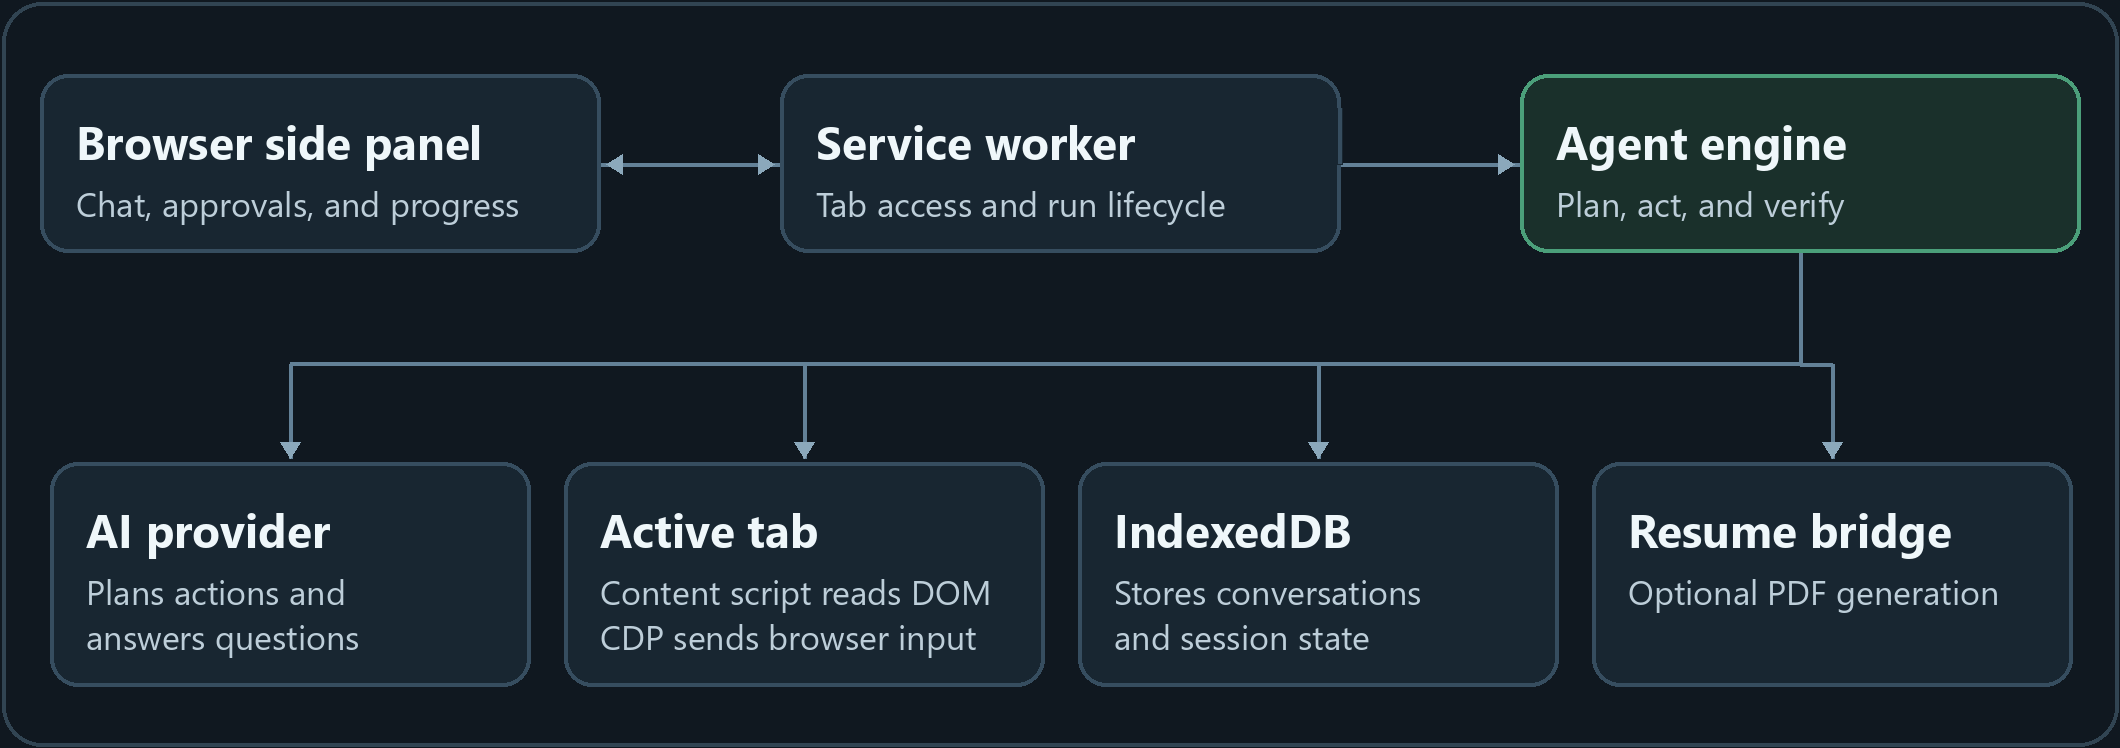
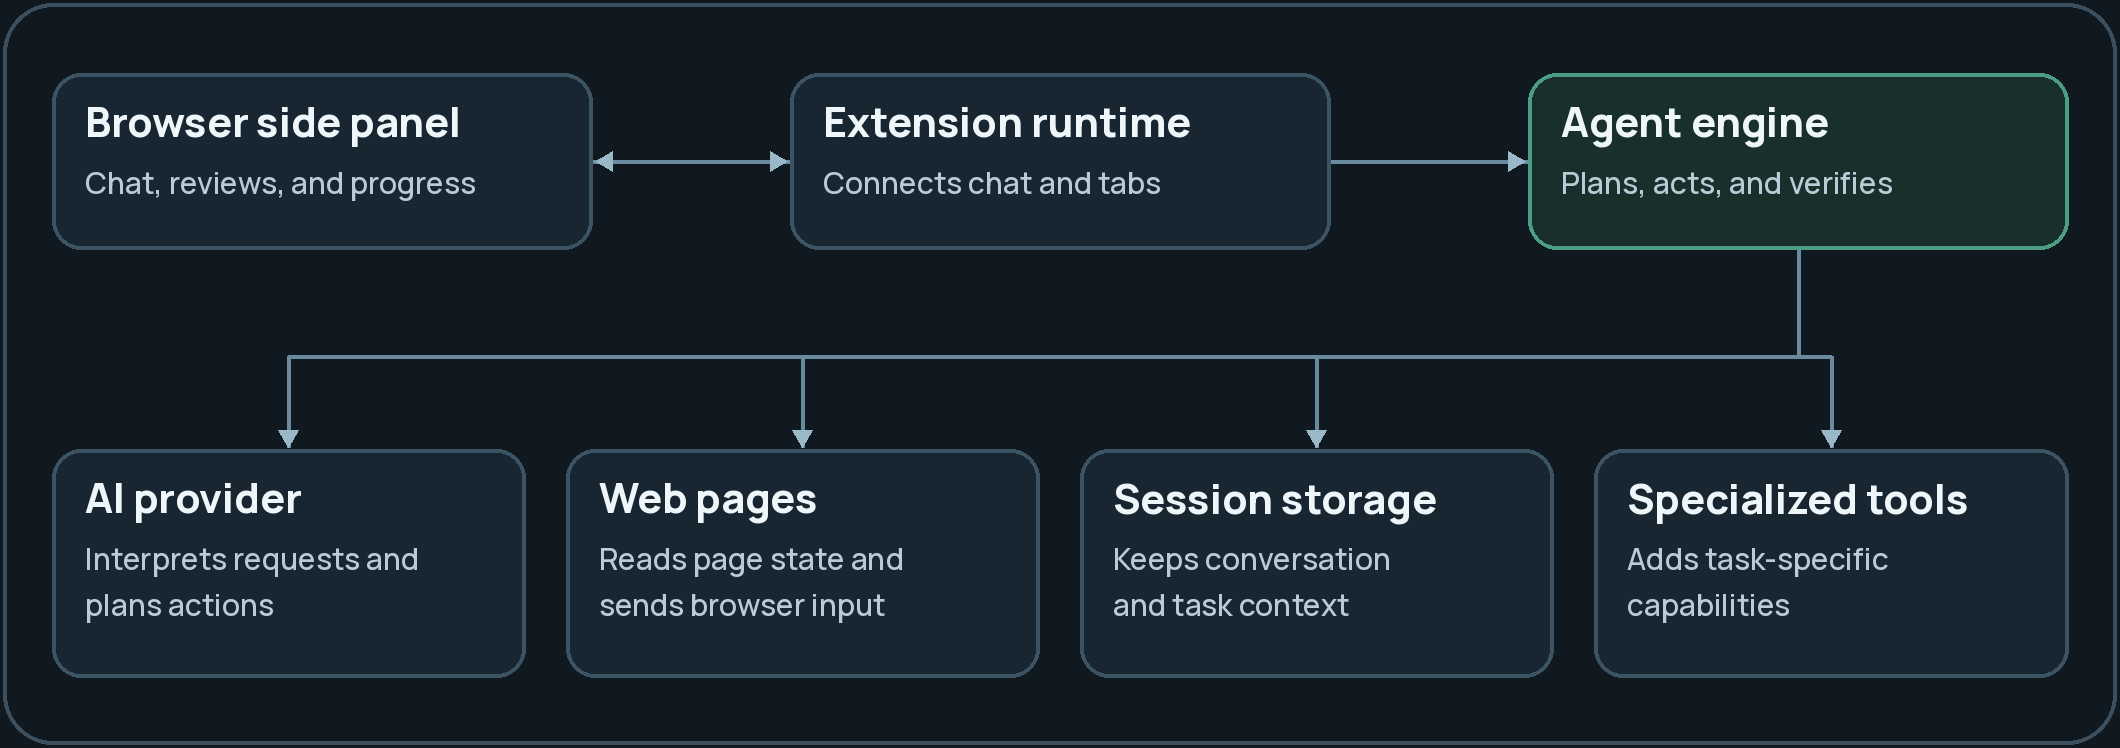
Show broader capabilities on the homepage

diff --git a/website/index.html b/website/index.html
@@ -4,7 +4,7 @@
   <meta charset="utf-8">
   <meta name="viewport" content="width=device-width,initial-scale=1">
   <title>Agent Smith — Your AI assistant inside the browser</title>
-  <meta name="description" content="Browse, research, answer quizzes, and automate website tasks with Agent Smith and your choice of AI model.">
+  <meta name="description" content="Understand pages, research the web, and work across web apps with Agent Smith and your choice of AI model.">
   <meta name="theme-color" content="#080b13">
   <link rel="canonical" href="https://mrfost07.github.io/Agent-Smith/">
   <link rel="icon" type="image/png" href="./assets/smith-icon.png">
@@ -39,7 +39,7 @@
       <div class="hero-top">
         <div class="hero-copy"><h1>Browse with AI.<br>Get things done.</h1></div>
         <div class="hero-description">
-          <p>Read pages, answer questions, and work through website tasks from a side panel in your browser.</p>
+          <p>Understand what’s on screen, research the web, and get work done across web apps from one side panel.</p>
           <div class="hero-actions">
             <a class="button primary" href="./download/">Install Agent Smith</a>
             <a class="button text-button" href="#showcase">See how it works</a>
@@ -58,21 +58,33 @@
     </section>
     <section class="features-section container" id="features" data-search-section>
       <div class="section-intro">
-        <h2>Ask a question.<br>Hand off a task.</h2>
-        <p>Use the context of the page you already have open, or ask Agent Smith to look something up.</p>
+        <h2>What Agent Smith can do.</h2>
+        <p>Describe what you want in plain language and follow the work in your browser.</p>
       </div>
       <div class="feature-text-grid">
         <article>
           <svg class="icon" viewBox="0 0 24 24" fill="none" stroke="currentColor" stroke-width="1.65" aria-hidden="true"><rect x="2" y="3" width="20" height="14" rx="2"/><path d="M8 21h8m-4-4v4"/></svg>
-          <h3>Browse and research.</h3><p>Navigate sites, read the active tab, search the web, and summarize what you find.</p>
+          <h3>Understand what’s on screen.</h3><p>Ask questions about a page, summarize long content, or interpret visuals with a model that supports screenshots.</p>
         </article>
         <article>
-          <svg class="icon" viewBox="0 0 24 24" fill="none" stroke="currentColor" stroke-width="1.65" aria-hidden="true"><path d="M6 3h9l4 4v14H6V3Z M14 3v5h5M9 12h7M9 16h5"/></svg>
-          <h3>Answer questions and quizzes.</h3><p>Read prompts and answer choices on the page and ask for an explanation in chat.</p>
+          <svg class="icon" viewBox="0 0 24 24" fill="none" stroke="currentColor" stroke-width="1.65" aria-hidden="true"><circle cx="10.5" cy="10.5" r="6.5"/><path d="m15.5 15.5 5 5"/></svg>
+          <h3>Research across the web.</h3><p>Find relevant sources, compare information across pages, and bring the findings back into the conversation.</p>
         </article>
         <article>
           <svg class="icon" viewBox="0 0 24 24" fill="none" stroke="currentColor" stroke-width="1.65" aria-hidden="true"><path d="M3 6h7l2 3h9v12H3V6Z"/></svg>
-          <h3>Automate website tasks.</h3><p>Click controls, fill forms, and work through tasks that take several steps. Review mode lets you approve page input.</p>
+          <h3>Work in web apps.</h3><p>Navigate interfaces, use menus and controls, enter information, and carry out tasks that span several steps.</p>
+        </article>
+        <article>
+          <svg class="icon" viewBox="0 0 24 24" fill="none" stroke="currentColor" stroke-width="1.65" aria-hidden="true"><path d="M4 19V5m0 14h16M8 15l4-4 3 2 5-6"/></svg>
+          <h3>Follow and steer the work.</h3><p>See what Smith is doing, give it another instruction, or ask it to continue from the current page.</p>
+        </article>
+        <article>
+          <svg class="icon" viewBox="0 0 24 24" fill="none" stroke="currentColor" stroke-width="1.65" aria-hidden="true"><path d="M12 2 4 5v6c0 5 4 8.5 8 11 4-2.5 8-6 8-11V5l-8-3Z m-4 9 3 3 5-5"/></svg>
+          <h3>Choose how actions run.</h3><p>Use Review to approve page input as Smith works, or Turbo to run the requested actions automatically.</p>
+        </article>
+        <article>
+          <svg class="icon" viewBox="0 0 24 24" fill="none" stroke="currentColor" stroke-width="1.65" aria-hidden="true"><path d="M4 7h16M4 12h16M4 17h16"/><circle cx="8" cy="7" r="2" fill="currentColor"/><circle cx="15" cy="12" r="2" fill="currentColor"/><circle cx="10" cy="17" r="2" fill="currentColor"/></svg>
+          <h3>Bring your own model.</h3><p>Choose a supported AI provider and model in Settings, with optional screenshot input for models that support vision.</p>
         </article>
       </div>
     </section>
@@ -80,11 +92,11 @@
       <div class="container">
         <div class="section-intro">
           <h2>How the agent works.</h2>
-          <p>The side panel sends your request to the agent engine. The model uses page context to plan actions, and the browser reports the results back to the engine.</p>
+          <p>Smith uses your request and the current page to answer directly or choose a browser action. It checks the result before deciding what to do next.</p>
         </div>
         <div class="screenshot-pane">
           <button type="button" class="screenshot-button" data-expand-image aria-label="Enlarge the Agent Smith architecture diagram">
-            <img src="./assets/architecture.png" alt="How Agent Smith connects the browser side panel, agent engine, AI provider, active tab, and local storage" width="2120" height="748" loading="lazy">
+            <img src="./assets/architecture.png" alt="The browser side panel connects to the agent engine through the extension runtime. The engine uses an AI provider, web pages, session storage, and specialized tools." width="2120" height="748" loading="lazy">
           </button>
         </div>
         <a class="text-link screenshot-guide" href="./docs/#architecture">Explore the architecture →</a>

diff --git a/website/docs/index.html b/website/docs/index.html
@@ -48,7 +48,7 @@
       <p>Open <strong>Settings</strong>, select an AI provider, and enter its credentials if required. Choose <strong>Save and load models</strong>, then select a model. To use screenshots, pick a vision-capable model and enable <strong>Send page screenshots to the selected AI model</strong>.</p>
       <p>For local OpenCode setup or Antigravity OAuth, use the <a href="https://github.com/mrfost07/Agent-Smith#ai-providers">provider instructions in the README</a>.</p>
       <h2 id="architecture">Architecture</h2>
-      <img src="../assets/architecture.png" width="2120" height="748" alt="Side panel, service worker, agent engine, AI provider, active tab, and local storage architecture">
+      <img src="../assets/architecture.png" width="2120" height="748" alt="The browser side panel connects to the agent engine through the extension runtime. The engine uses an AI provider, web pages, session storage, and specialized tools.">
       <p>The side panel passes requests to the extension service worker. The engine uses the selected model to plan actions, reads page context through the content script, and uses Chrome DevTools Protocol for pointer and keyboard input. Conversations are stored in IndexedDB.</p>
       <h2 id="page-data">Page data</h2>
       <p>For browser tasks, the selected provider can receive relevant page text and controls along with your request. If screenshots are enabled for a vision-capable model, the active page image can also be sent to that provider.</p>

diff --git a/README.md b/README.md
@@ -19,7 +19,7 @@
 
 ## Architecture
 
-![Agent Smith architecture. The browser side panel connects to the service worker and agent engine. The engine uses the selected AI provider, the active browser tab, IndexedDB, and an optional local resume bridge.](assets/architecture.png)
+![Agent Smith architecture. The browser side panel connects to the agent engine through the extension runtime. The engine uses an AI provider, web pages, session storage, and specialized tools.](assets/architecture.png)
 
 The agent engine uses the request and conversation to choose between a direct answer and a browser task. For browser tasks, it reads page text and controls through the content script and can capture a screenshot when vision is enabled. It plans the next action with the selected model, runs the action after any required approval, and reads the page again to check the result.
 
